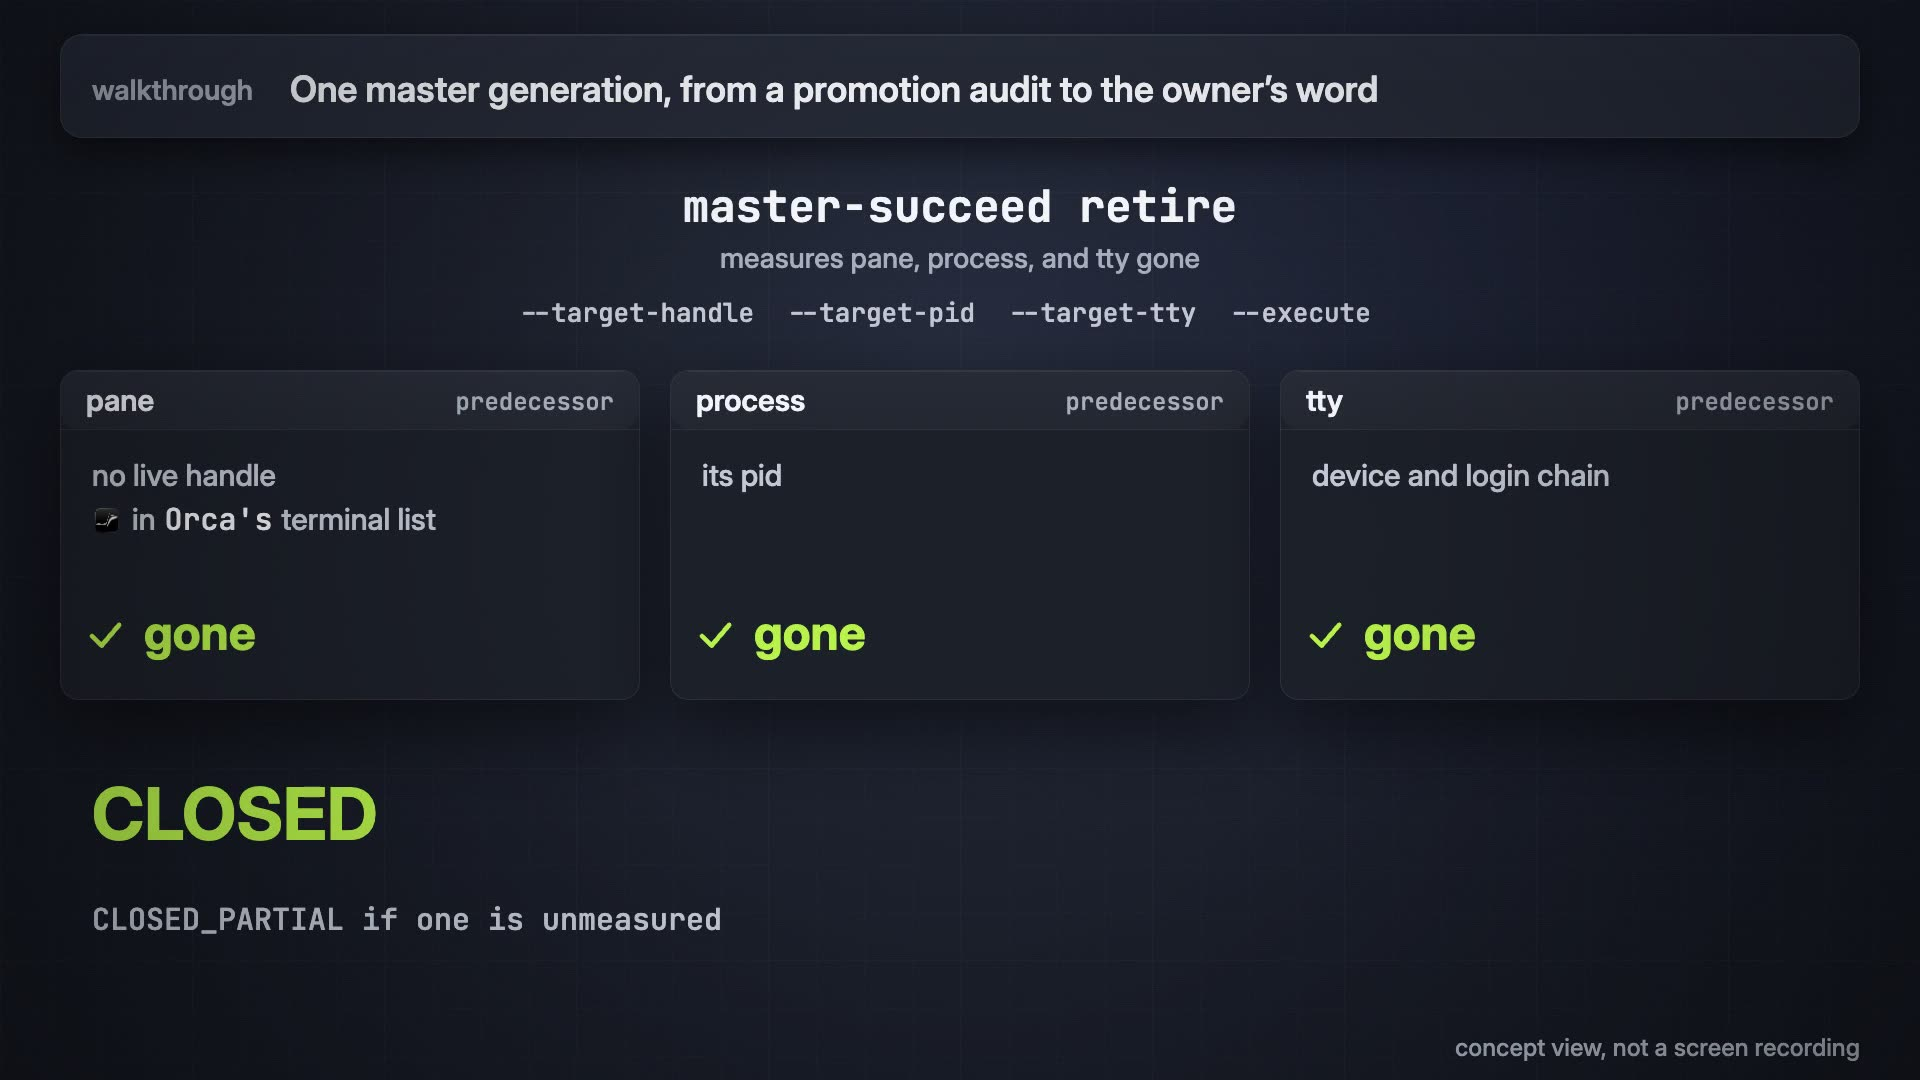
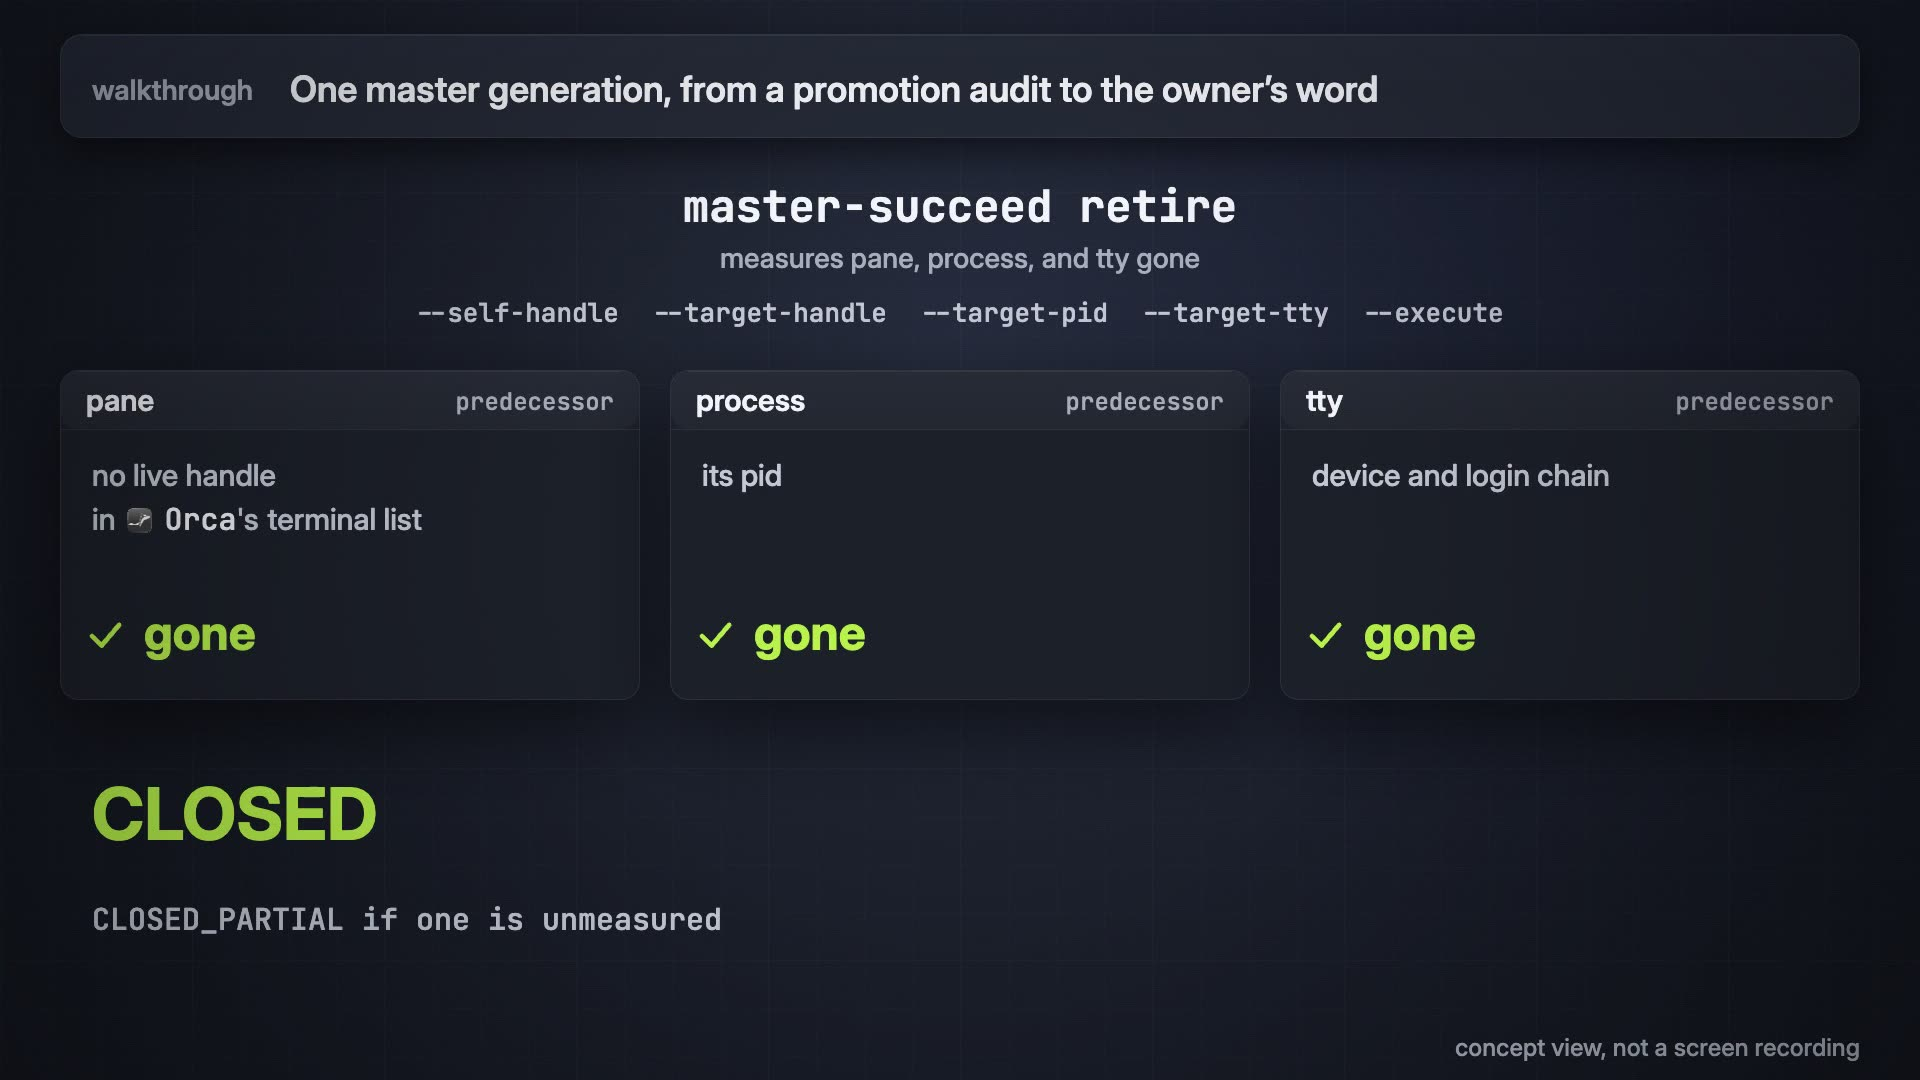
docs: films 2 and 3 corrected after the master's audit

Changed region(s): [[0.2188, 0.275, 0.7812, 0.3056], [0.125, 0.4583, 0.2188, 0.4889], [0.0312, 0.4583, 0.0938, 0.4889]]

diff --git a/walkthroughs/02-one-master-generation.md b/walkthroughs/02-one-master-generation.md
@@ -2,13 +2,13 @@
 
 **In one breath.** A master is a long session with a declared role. It is spawned on purpose into an expected place and proves it landed there. It measures its own model and its harness, retires the session before it by three measured disappearances, and writes one entry in the lineage, the file with one entry per generation. Then it works by continuing and compacting (summarizing its own context and going on) until the owner says to hand over.
 
-**Watch the 35-second film.** Concept view, not a screen recording; every claim on screen is a step on this page. The [release page](https://github.com/baksohyeon/mogui-harness-explained/releases/tag/walkthrough-films-20261109) has the file, the scene-to-step table, and the credits.
+**Watch the 36-second film.** Concept view, not a screen recording; every claim on screen is a step on this page. The [release page](https://github.com/baksohyeon/mogui-harness-explained/releases/tag/walkthrough-films-20261109) has the file, the scene-to-step table, and the credits.
 
 <p align="center"><a href="https://github.com/baksohyeon/mogui-harness-explained/releases/tag/walkthrough-films-20261109"><img src="../assets/walkthroughs/02-one-master-generation-poster.jpg" alt="a frame of the film: pane, process, and tty each measured gone, and the predecessor reads CLOSED" width="100%"></a></p>
 
 <p align="center"><sub>The player below shows in a web browser. In the GitHub mobile app, tap the picture; the release page has the film.</sub></p>
 
-https://github.com/user-attachments/assets/a51bb951-a3ce-48fc-8825-98b482c13db1
+https://github.com/user-attachments/assets/cf8a11d4-1156-476d-877f-16cd4a2e36f8
 
 Eleven steps, and the last one points back at the first.
 

diff --git a/walkthroughs/03-one-template-upgrade.md b/walkthroughs/03-one-template-upgrade.md
@@ -8,7 +8,7 @@
 
 <p align="center"><sub>The player below shows in a web browser. In the GitHub mobile app, tap the picture; the release page has the film.</sub></p>
 
-https://github.com/user-attachments/assets/4a4f0ca7-1919-4d52-87a3-a778eea2f954
+https://github.com/user-attachments/assets/0089c0e1-ae58-46fb-9b35-0ef68a3841fc
 
 Twelve steps.
 
